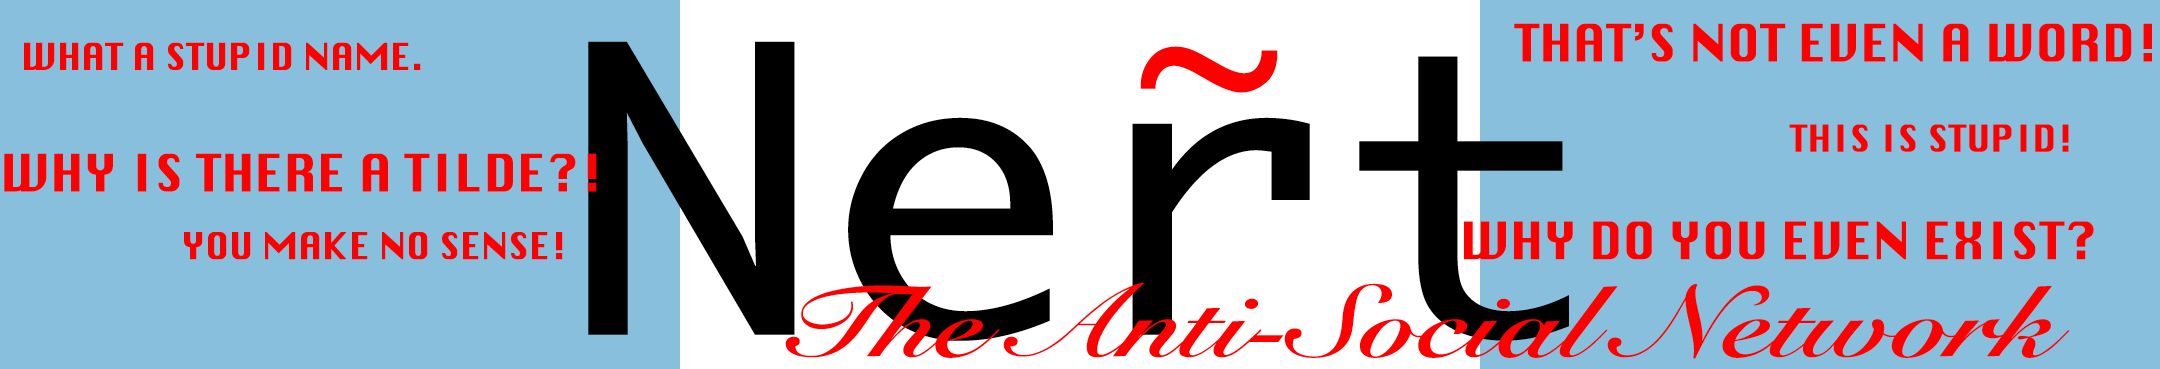
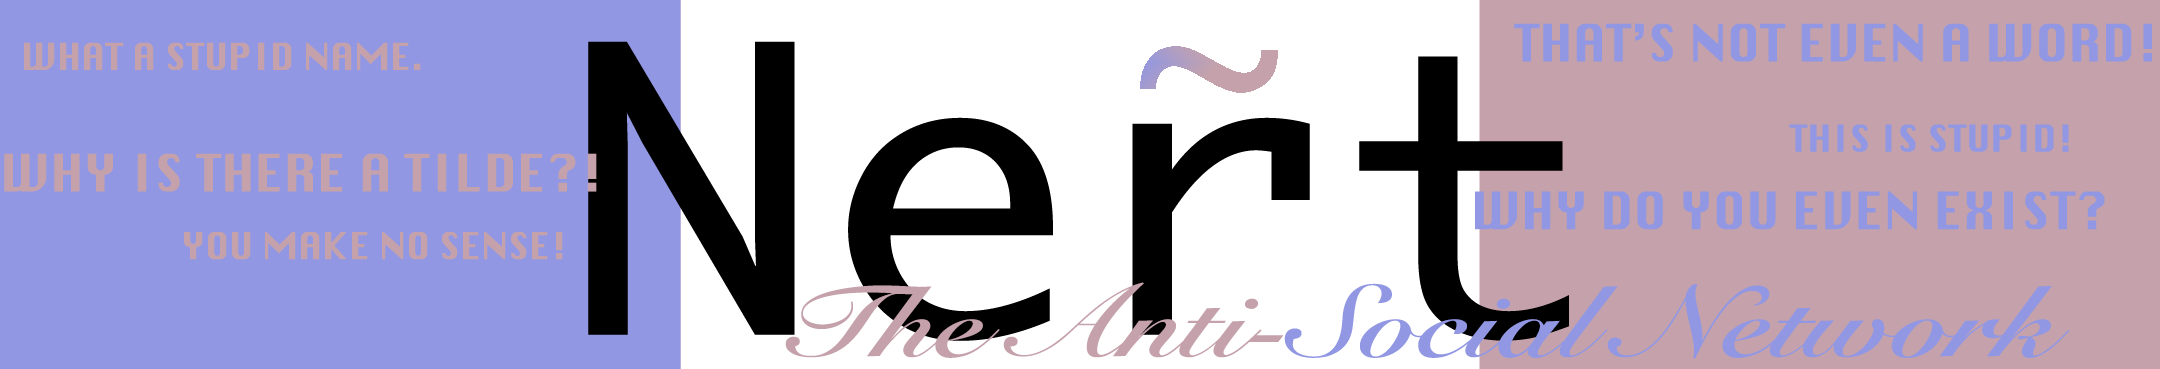
added stuff
Added misc. angry pictures for newsfeed, added comments, added another
dummy newsfeed item

diff --git a/public/index.html b/public/index.html
@@ -6,7 +6,8 @@
     <meta name="viewport" content="width=device-width, initial-scale=1.0">
     <meta http-equiv="X-UA-Compatible" content="ie=edge">
     <title>Ner̃t: we don't discriminate what you hate</title>
-
+    
+    <!--JQuERY ! THAT FUNKY QUERY!-->
     <script src="https://code.jquery.com/jquery-3.2.1.js" integrity="sha256-DZAnKJ/6XZ9si04Hgrsxu/8s717jcIzLy3oi35EouyE=" crossorigin="anonymous"></script>
 
     <!-- Latest compiled and minified CSS -->
@@ -42,6 +43,7 @@
                 <br>
                 <div class="left-navigation">
                     <ul class="list">
+                        <br><br>
                         <h5><strong>Stupid Social Network Channels</strong></h5>
                         <li>Facebook</li>
                         <li>Shitter</li>
@@ -72,10 +74,19 @@
                     <h3>You've found the right place! Here at Ner̃t, we don't discriminate what you hate!&trade;
                 </div>
                 <hr>
-                <div id='newsfeed'>
-                    <span id='user'></span><h3><b><u><span id='title'></span></b></u></h3>
-                    <span id='mainNewsBody'></span>
+                <div class='newsfeed'>
+                    <span id='user'></span>
+                    <h4><b><u><span id='title'></span></b></u></h4>
+                    <span id='imagio'></span><span id='mainNewsBody'></span>
                 </div>
+
+
+                <div class='newsfeed'>
+                    <span id='user2'></span>
+                    <h4><b><u><span id='title2'></span></b></u></h4>
+                    <span id='imagio2'></span><span id='mainNewsBody2'></span>
+                </div>
+
             </div>
         </div>
     </div>
@@ -89,9 +100,16 @@
 </body>
 
 <script>
-        $('#user').append(pickRandom(moderatelyInsultingUsernames));
-        $('#title').append('Here is a title of a stupid string!');
-        $('#mainNewsBody').append('this is an article thing we will bring in from the mongo db')
+  
+        $('#user').append( 'user: <i>' + createRandomUsername(moderatelyInsultingUsernames, modifiers) + '</i>');
+        $('#title').append('Some stupid shit from facebook!');
+        $('#imagio').append('<img src="' + pickRandom(imageLinks)+ '" style=float:right;width:100px;height:100px;margin: 0 0 10px 10px>')
+        $('#mainNewsBody').append('Kris and I often comment on the trite, cliche things people say about marriage/their spouse and how dishonoring and disrespectful they can be. When we were in New Orleans last week we overheard a conversation between a young girl and an older couple who had been married for 38 years. The girl asked the couple the common question, Whats the secret? The man responded, Go hard of hearing early. Really? Thats the best advice you have to give? You cant do any better after 38 years than some vapid quip? Call me crazy but I think how you talk about your marriage and your partner matters. Giving respect and honor is important.');
+
+$('#user2').append( 'user: <i>' + createRandomUsername(moderatelyInsultingUsernames, modifiers) + '</i>');
+        $('#title2').append('Some stupid shit from Twitter!!!');
+        $('#imagio2').append('<img src="' + pickRandom(imageLinks)+ '" style=float:right;width:100px;height:100px;margin: 0 0 10px 10px>')
+        $('#mainNewsBody2').append('I want my first daughter to be a girl ');
 
 
 ///eventually we will do a for loop and append this document for every article thing in the database
@@ -100,6 +118,7 @@
 //                     <span id='user'></span><h3><b><u><span id='title'></span></b></u></h3>
 //                     <span id='mainNewsBody'></span>
 //                 </div>
+
 </script>
 
 </html>

diff --git a/public/styles.css b/public/styles.css
@@ -2,52 +2,70 @@ body{
   text-align: center;
   height: 100%;
   font-family: monospace;
+  background-color:papayawhip;
 }
 
-#navigationleft{
-  text-align: left;
-}
+
 /*STYLING FOR NAVIGATION BAR!*/
 .sidebar1 {
     background: #F17153;
     /* For browsers that do not support gradients */
-    background: -webkit-linear-gradient(#F17153, #F58D63, #f1ab53);
+    background: -webkit-linear-gradient(#C5A2AB, #ffebcd, #9197E2);
     /* For Safari 5.1 to 6.0 */
-    background: -o-linear-gradient(#F17153, #F58D63, #f1ab53);
+    background: -o-linear-gradient(#C5A2AB, #ffebcd, #9197E2);
     /* For Opera 11.1 to 12.0 */
-    background: -moz-linear-gradient(#F17153, #F58D63, #f1ab53);
+    background: -moz-linear-gradient(#C5A2AB, #ffebcd, #9197E2);
     /* For Firefox 3.6 to 15 */
-    background: linear-gradient(#F17153, #F58D63, #f1ab53);
+    background: linear-gradient(#C5A2AB, #ffebcd, #9197E2);
     /* Standard syntax */
     padding: 0px;
     min-height: 100%;
-}z
+}
 .logo {
     max-height: 130px;
 }
 .logo>img {
     margin-top: 30px;
     padding: 3px;
-    border: 3px solid white;
+    border: 3px solid black;
     border-radius: 100%;
 }
 .list {
-    color: #fff;
+    color: black;
     list-style: none;
     padding-left: 0px;
 }
-.list::first-line {
-    color: rgba(255, 255, 255, 0.5);
+.list::first-line, h5 {
+    color: black;
 }
 .list> li, h5 {
     padding: 5px 0px 5px 40px;
 }
 .list>li:hover {
     background-color: rgba(255, 255, 255, 0.2);
-    border-left: 5px solid white;
-    color: white;
+    border-left: 5px solid black;
+    color: black;
     font-weight: bolder;
     padding-left: 35px;
 }.main-content{
 text-align:center;
+}
+
+
+
+/****style newsfeed divs****/
+.newsfeed{
+  margin: auto; 
+  align-content: center;
+  border-style: groove;
+  border-color: #9197E2;
+  width: 75%; 
+  height: 250px; 
+  background: -webkit-linear-gradient(#C5A2AB, #ffebcd, #9197E2);
+    /* For Safari 5.1 to 6.0 */
+    background: -o-linear-gradient(#C5A2AB, #ffebcd, #9197E2);
+    /* For Opera 11.1 to 12.0 */
+    background: -moz-linear-gradient(#C5A2AB, #ffebcd, #9197E2);
+    /* For Firefox 3.6 to 15 */
+    background: linear-gradient(#C5A2AB, #ffebcd, #9197E2);
 }

diff --git a/public/utility.js b/public/utility.js
@@ -8,7 +8,12 @@ var mildlyInsultingUsernames = [
     "nert",
     "geek",
     "dingus",
-    "knuckledragger"
+    "knuckledragger",
+    "landlubber",
+    "yellow-bellied coward",
+    "chad",
+    "loser",
+    "wannabe"
 ];
 
 var moderatelyInsultingUsernames = [
@@ -20,13 +25,16 @@ var moderatelyInsultingUsernames = [
 var highlyInsultingUsernames = [
 
 ];
-
+///////////////////////////////////////////////////////////
+/////add modifiers to beginning of insulting usernames////
+/////////////////////////////////////////////////////////
 var modifiers = [
     "some",
     "a",
     "what a",
     "another",
-    "your typical"
+    "your typical",
+    "just a"
 ];
 
 //Many quotes found at http://imgur.com/gallery/0pat8
@@ -41,10 +49,15 @@ var uninspirationalQuotes = [
     "The only way to save the planet is to stop making new people"
 ];
 
+////////////////////////////////
+////////Create Random Username//
+////////////////////////////////
 function createRandomUsername(arryOfUsernames, arrayOfModifiers) {
     return pickRandom(arrayOfModifiers) + " " + pickRandom(arryOfUsernames);
 }
-
+////////////////////////////
+////Pick Random////////////
+//////////////////////////
 function pickRandom(array) {
     //selects a random whole number between 0 and one less than the length of the array (for 0 indexed array)
     var randomIndex = Math.floor(Math.random() * array.length);
@@ -114,8 +127,22 @@ function getMsMultiplierFromUnit(intervalUnit) {
         }
     }
 }
-
-
+   /////////////////////////////////////////
+  ////////CREATE RANDOM IMAGES ARRAY///////
+ ////for inserting image into newsfeed////
+/////////////////////////////////////////
+var imageLinks = [
+    "./images/miscAngry/0.gif",
+    "./images/miscAngry/1.png",
+    "./images/miscAngry/2.png",
+    "./images/miscAngry/3.gif",
+    "./images/miscAngry/4.png",
+    "./images/miscAngry/5.jpg",
+    "./images/miscAngry/6.jpeg",
+    "./images/miscAngry/7.png",
+    "./images/miscAngry/8.jpeg",
+    "./images/miscAngry/9.gif",
+];
 
 //Example usages
 // pickRandomAtInterval(uninspirationalQuotes, 2, "second");

diff --git a/index.js b/index.js
@@ -62,7 +62,7 @@ app.get('/api/rants', function (req, res) {
     });
 });
 
-<<<<<<< HEAD
+
 //Post a new response 
 app.post('/api/response/:rantID', function(req,res){
 	if(req.session){
@@ -123,7 +123,7 @@ app.post('/api/newRant', function(req, res) {
 			}
 			res.send(data);
 	});
-=======
+
 // Post a new post
 app.post('/api/newRant', function (req, res) {
     if (req.session._id) {
@@ -160,7 +160,7 @@ app.post('/api/newRant', function (req, res) {
             }
             res.send(data);
         });
->>>>>>> origin/master
+origin/master
 });
 
 // post an update reaction
